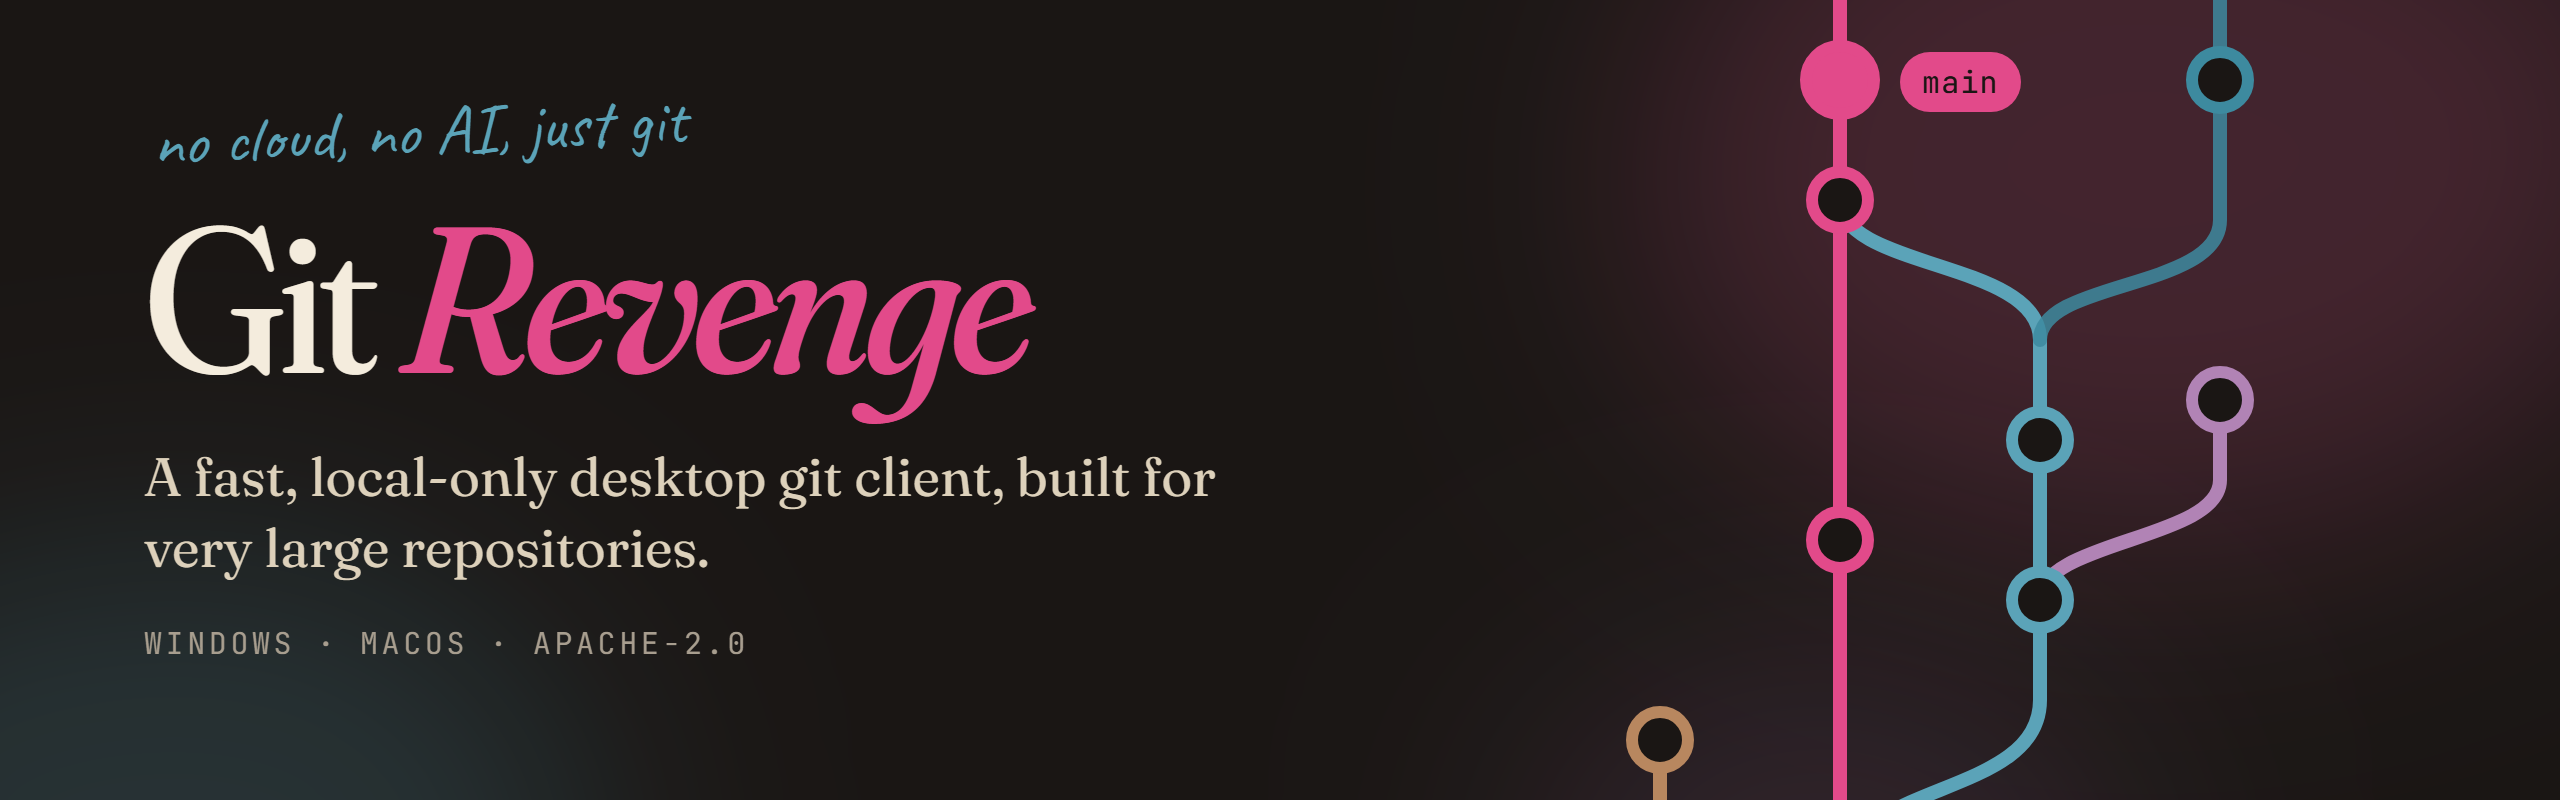
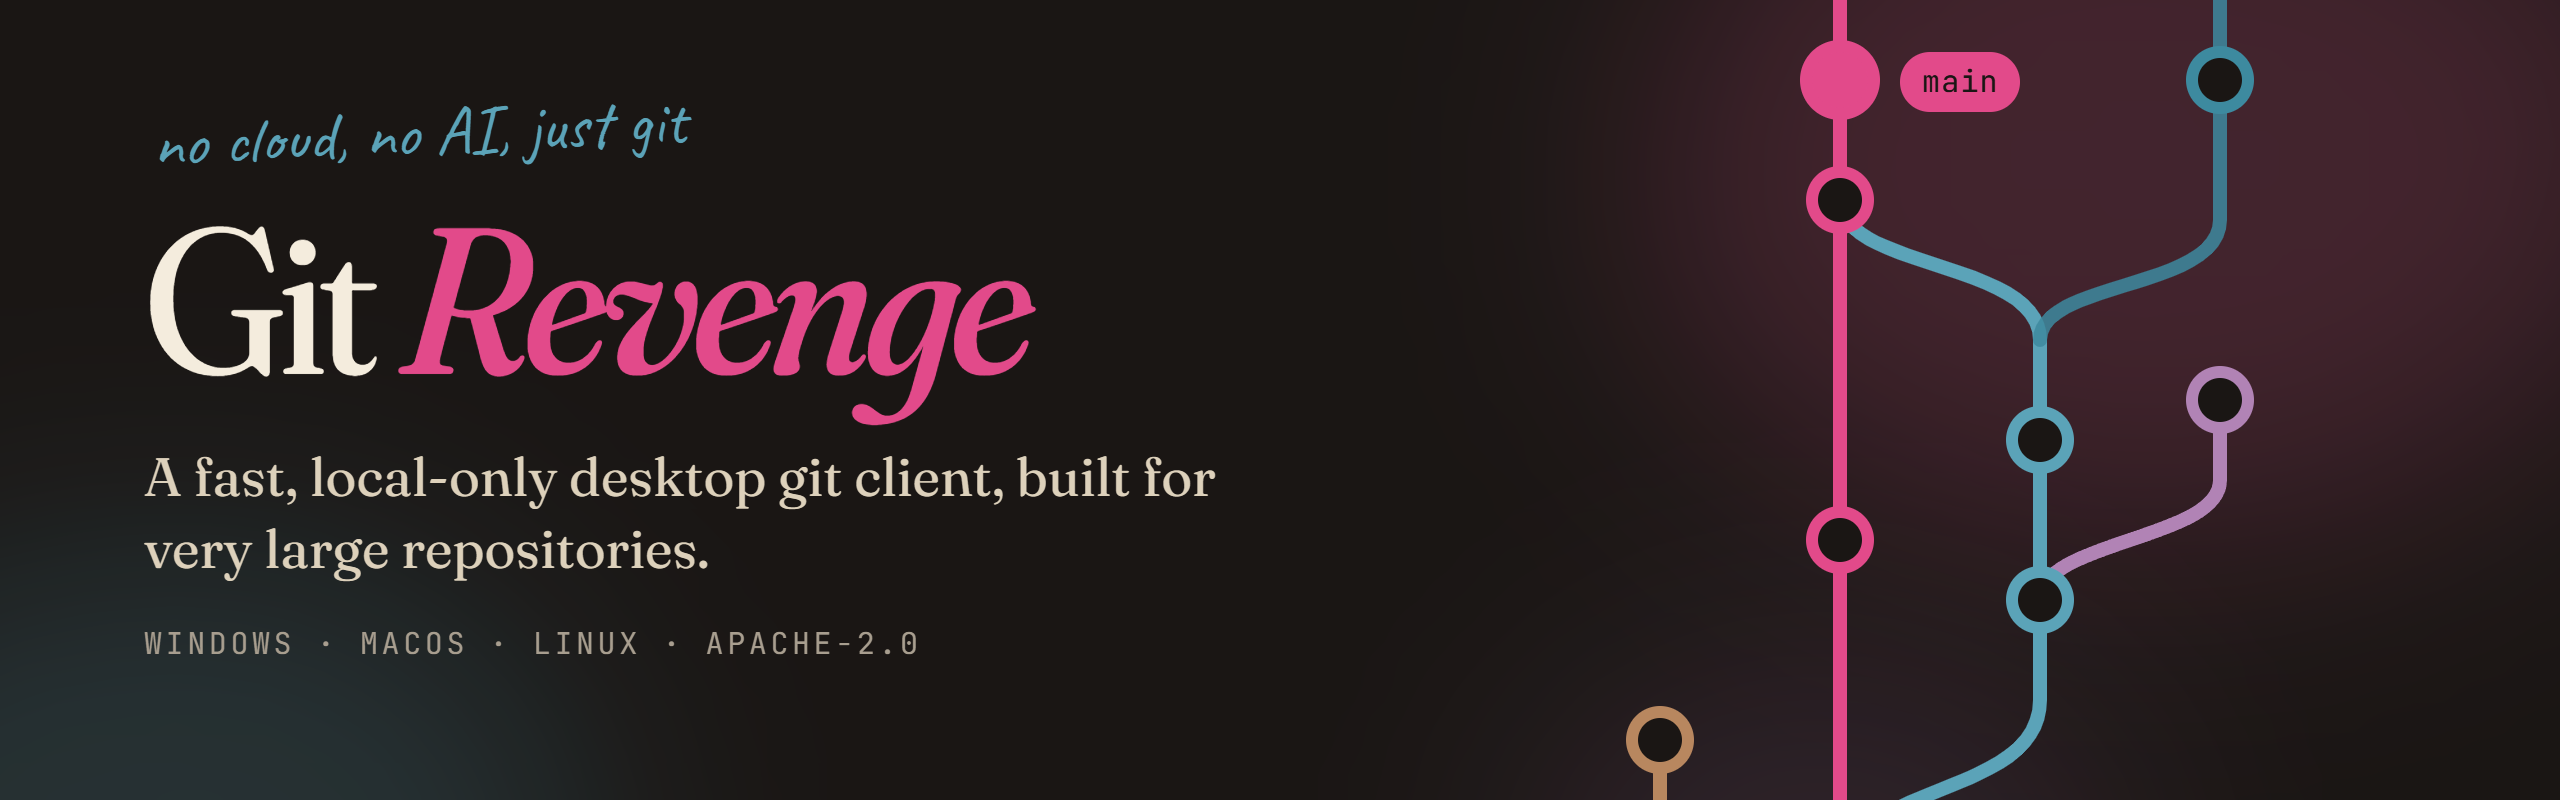
Add Linux and the package managers to the profile
Refs Git-Revenge/GitRevenge#713

diff --git a/profile/banner-dark.html b/profile/banner-dark.html
@@ -44,5 +44,5 @@ h1 em{font-style:italic;font-weight:500;color:#e24a8a}
 <span class="kicker">no cloud, no AI, just git</span>
 <h1>Git <em>Revenge</em></h1>
 <p class="lede">A fast, local-only desktop git client, built for very large repositories.</p>
-<span class="meta">Windows · macOS · Apache-2.0</span>
+<span class="meta">Windows · macOS · Linux · Apache-2.0</span>
 </div></div></body></html>

diff --git a/profile/banner-light.html b/profile/banner-light.html
@@ -44,5 +44,5 @@ h1 em{font-style:italic;font-weight:500;color:#cb0162}
 <span class="kicker">no cloud, no AI, just git</span>
 <h1>Git <em>Revenge</em></h1>
 <p class="lede">A fast, local-only desktop git client, built for very large repositories.</p>
-<span class="meta">Windows · macOS · Apache-2.0</span>
+<span class="meta">Windows · macOS · Linux · Apache-2.0</span>
 </div></div></body></html>

diff --git a/assets/README-source.md b/assets/README-source.md
@@ -1,11 +1,16 @@
 <picture>
   <source media="(prefers-color-scheme: dark)" srcset="https://raw.githubusercontent.com/Git-Revenge/.github/main/profile/banner-dark.png">
-  <img src="https://raw.githubusercontent.com/Git-Revenge/.github/main/profile/banner-light.png" alt="Git Revenge: a fast, local-only desktop git client, built for very large repositories. Windows, macOS, Apache-2.0.">
+  <img src="https://raw.githubusercontent.com/Git-Revenge/.github/main/profile/banner-light.png" alt="Git Revenge: a fast, local-only desktop git client, built for very large repositories. Windows, macOS, Linux, Apache-2.0.">
 </picture>
 
-Git Revenge is a desktop git client for Windows and macOS that stays fast on huge repositories. It drives the `git` you already have installed. There are no accounts, no cloud features and no AI.
+Git Revenge is a desktop git client for Windows, macOS and Linux that stays fast on huge repositories. It drives the `git` you already have installed. There are no accounts, no cloud features and no AI.
 
 **[Download the latest release](https://github.com/Git-Revenge/GitRevenge/releases/latest)** · [Read the docs](https://gitrevenge.com) · [Browse the source](https://github.com/Git-Revenge/GitRevenge)
+
+Or install it with a package manager:
+
+- **macOS:** `brew install --cask git-revenge/tap/gitrevenge`, from [our tap](https://github.com/Git-Revenge/homebrew-tap).
+- **Ubuntu, Debian and RHEL:** `apt` or `dnf`, from the signed repositories at [packages.gitrevenge.com](https://packages.gitrevenge.com) ([source](https://github.com/Git-Revenge/packages)). The [install guide](https://gitrevenge.com/docs/guide/install#linux) has the one-time setup.
 
 ### Why use it
 
@@ -15,6 +20,6 @@ Git Revenge is a desktop git client for Windows and macOS that stays fast on hug
 
 ### Get involved
 
-Git Revenge is in early development. Bugs and ideas go in the [issue tracker](https://github.com/Git-Revenge/GitRevenge/issues). Before you open a pull request, read the [contributing guide](https://github.com/Git-Revenge/GitRevenge/blob/main/CONTRIBUTING.md) and the [code of conduct](https://github.com/Git-Revenge/GitRevenge/blob/main/CODE_OF_CONDUCT.md). Report vulnerabilities privately, as the [security policy](https://github.com/Git-Revenge/GitRevenge/blob/main/SECURITY.md) explains.
+Bugs and ideas go in the [issue tracker](https://github.com/Git-Revenge/GitRevenge/issues). Before you open a pull request, read the [contributing guide](https://github.com/Git-Revenge/GitRevenge/blob/main/CONTRIBUTING.md) and the [code of conduct](https://github.com/Git-Revenge/GitRevenge/blob/main/CODE_OF_CONDUCT.md). Report vulnerabilities privately, as the [security policy](https://github.com/Git-Revenge/GitRevenge/blob/main/SECURITY.md) explains. What we do (and don't do) with data is in the [privacy policy](https://gitrevenge.com/docs/privacy).
 
 Licensed under [Apache-2.0](https://github.com/Git-Revenge/GitRevenge/blob/main/LICENSE).

diff --git a/profile/README.md b/profile/README.md
@@ -1,11 +1,16 @@
 <picture>
   <source media="(prefers-color-scheme: dark)" srcset="https://raw.githubusercontent.com/Git-Revenge/.github/main/profile/banner-dark.png">
-  <img src="https://raw.githubusercontent.com/Git-Revenge/.github/main/profile/banner-light.png" alt="Git Revenge: a fast, local-only desktop git client, built for very large repositories. Windows, macOS, Apache-2.0.">
+  <img src="https://raw.githubusercontent.com/Git-Revenge/.github/main/profile/banner-light.png" alt="Git Revenge: a fast, local-only desktop git client, built for very large repositories. Windows, macOS, Linux, Apache-2.0.">
 </picture>
 
-Git Revenge is a desktop git client for Windows and macOS that stays fast on huge repositories. It drives the `git` you already have installed. There are no accounts, no cloud features and no AI.
+Git Revenge is a desktop git client for Windows, macOS and Linux that stays fast on huge repositories. It drives the `git` you already have installed. There are no accounts, no cloud features and no AI.
 
 **[Download the latest release](https://github.com/Git-Revenge/GitRevenge/releases/latest)** · [Read the docs](https://gitrevenge.com) · [Browse the source](https://github.com/Git-Revenge/GitRevenge)
+
+Or install it with a package manager:
+
+- **macOS:** `brew install --cask git-revenge/tap/gitrevenge`, from [our tap](https://github.com/Git-Revenge/homebrew-tap).
+- **Ubuntu, Debian and RHEL:** `apt` or `dnf`, from the signed repositories at [packages.gitrevenge.com](https://packages.gitrevenge.com) ([source](https://github.com/Git-Revenge/packages)). The [install guide](https://gitrevenge.com/docs/guide/install#linux) has the one-time setup.
 
 ### Why use it
 
@@ -15,6 +20,6 @@ Git Revenge is a desktop git client for Windows and macOS that stays fast on hug
 
 ### Get involved
 
-Git Revenge is in early development. Bugs and ideas go in the [issue tracker](https://github.com/Git-Revenge/GitRevenge/issues). Before you open a pull request, read the [contributing guide](https://github.com/Git-Revenge/GitRevenge/blob/main/CONTRIBUTING.md) and the [code of conduct](https://github.com/Git-Revenge/GitRevenge/blob/main/CODE_OF_CONDUCT.md). Report vulnerabilities privately, as the [security policy](https://github.com/Git-Revenge/GitRevenge/blob/main/SECURITY.md) explains.
+Bugs and ideas go in the [issue tracker](https://github.com/Git-Revenge/GitRevenge/issues). Before you open a pull request, read the [contributing guide](https://github.com/Git-Revenge/GitRevenge/blob/main/CONTRIBUTING.md) and the [code of conduct](https://github.com/Git-Revenge/GitRevenge/blob/main/CODE_OF_CONDUCT.md). Report vulnerabilities privately, as the [security policy](https://github.com/Git-Revenge/GitRevenge/blob/main/SECURITY.md) explains. What we do (and don't do) with data is in the [privacy policy](https://gitrevenge.com/docs/privacy).
 
 Licensed under [Apache-2.0](https://github.com/Git-Revenge/GitRevenge/blob/main/LICENSE).
